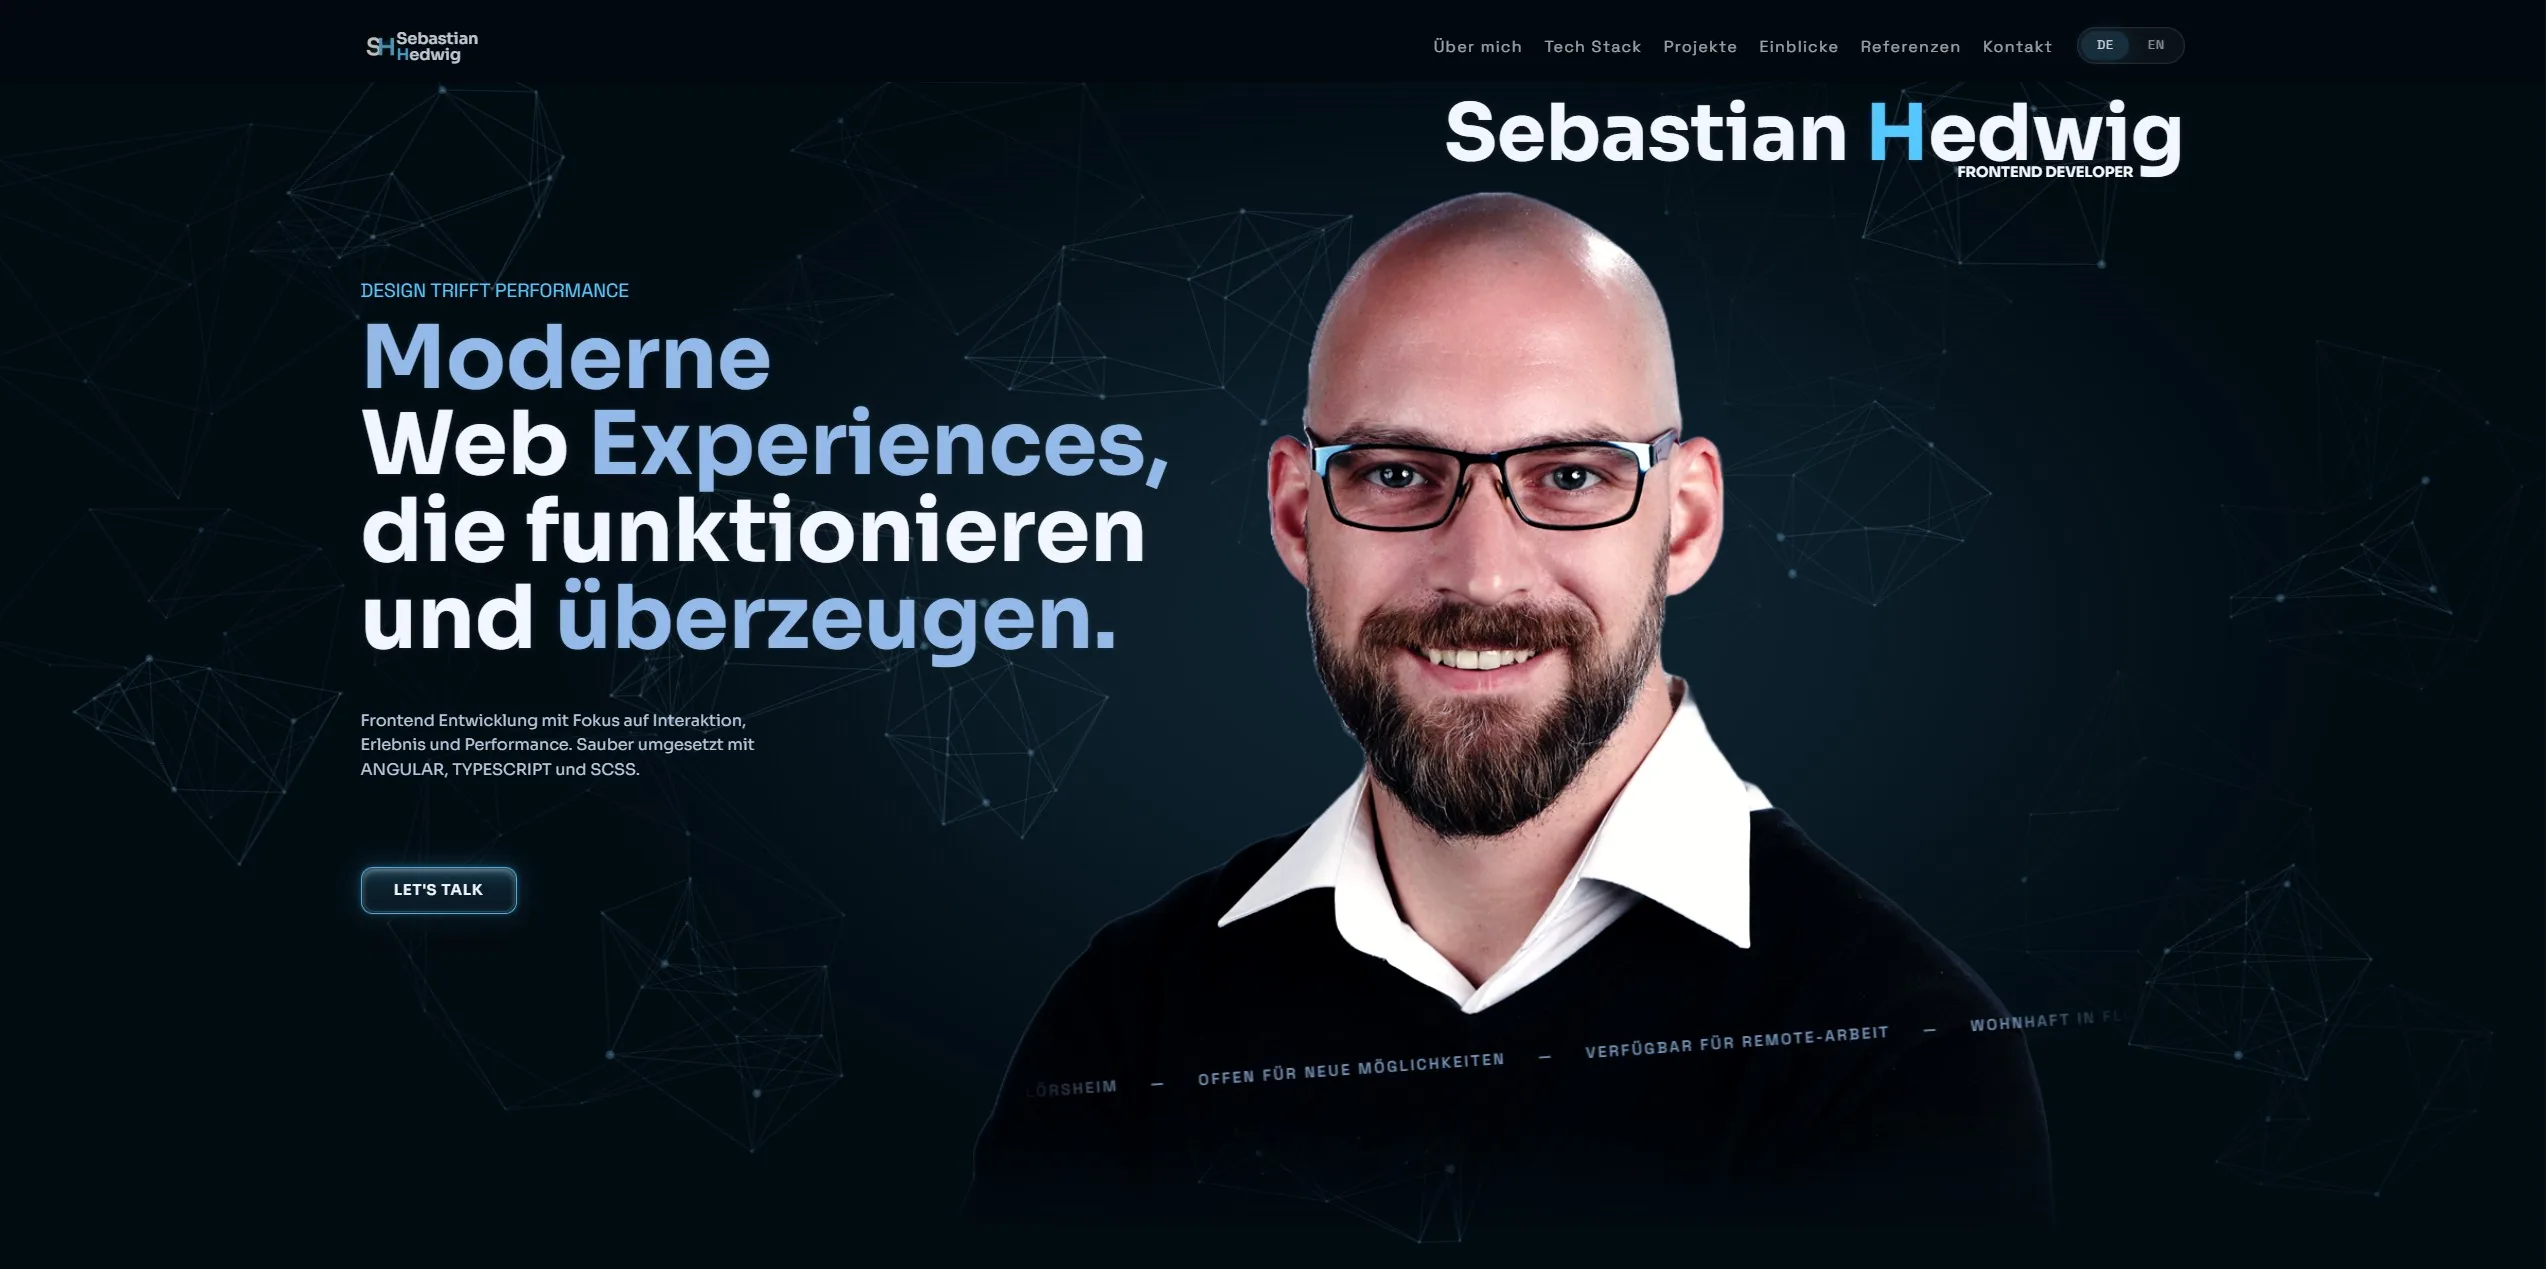
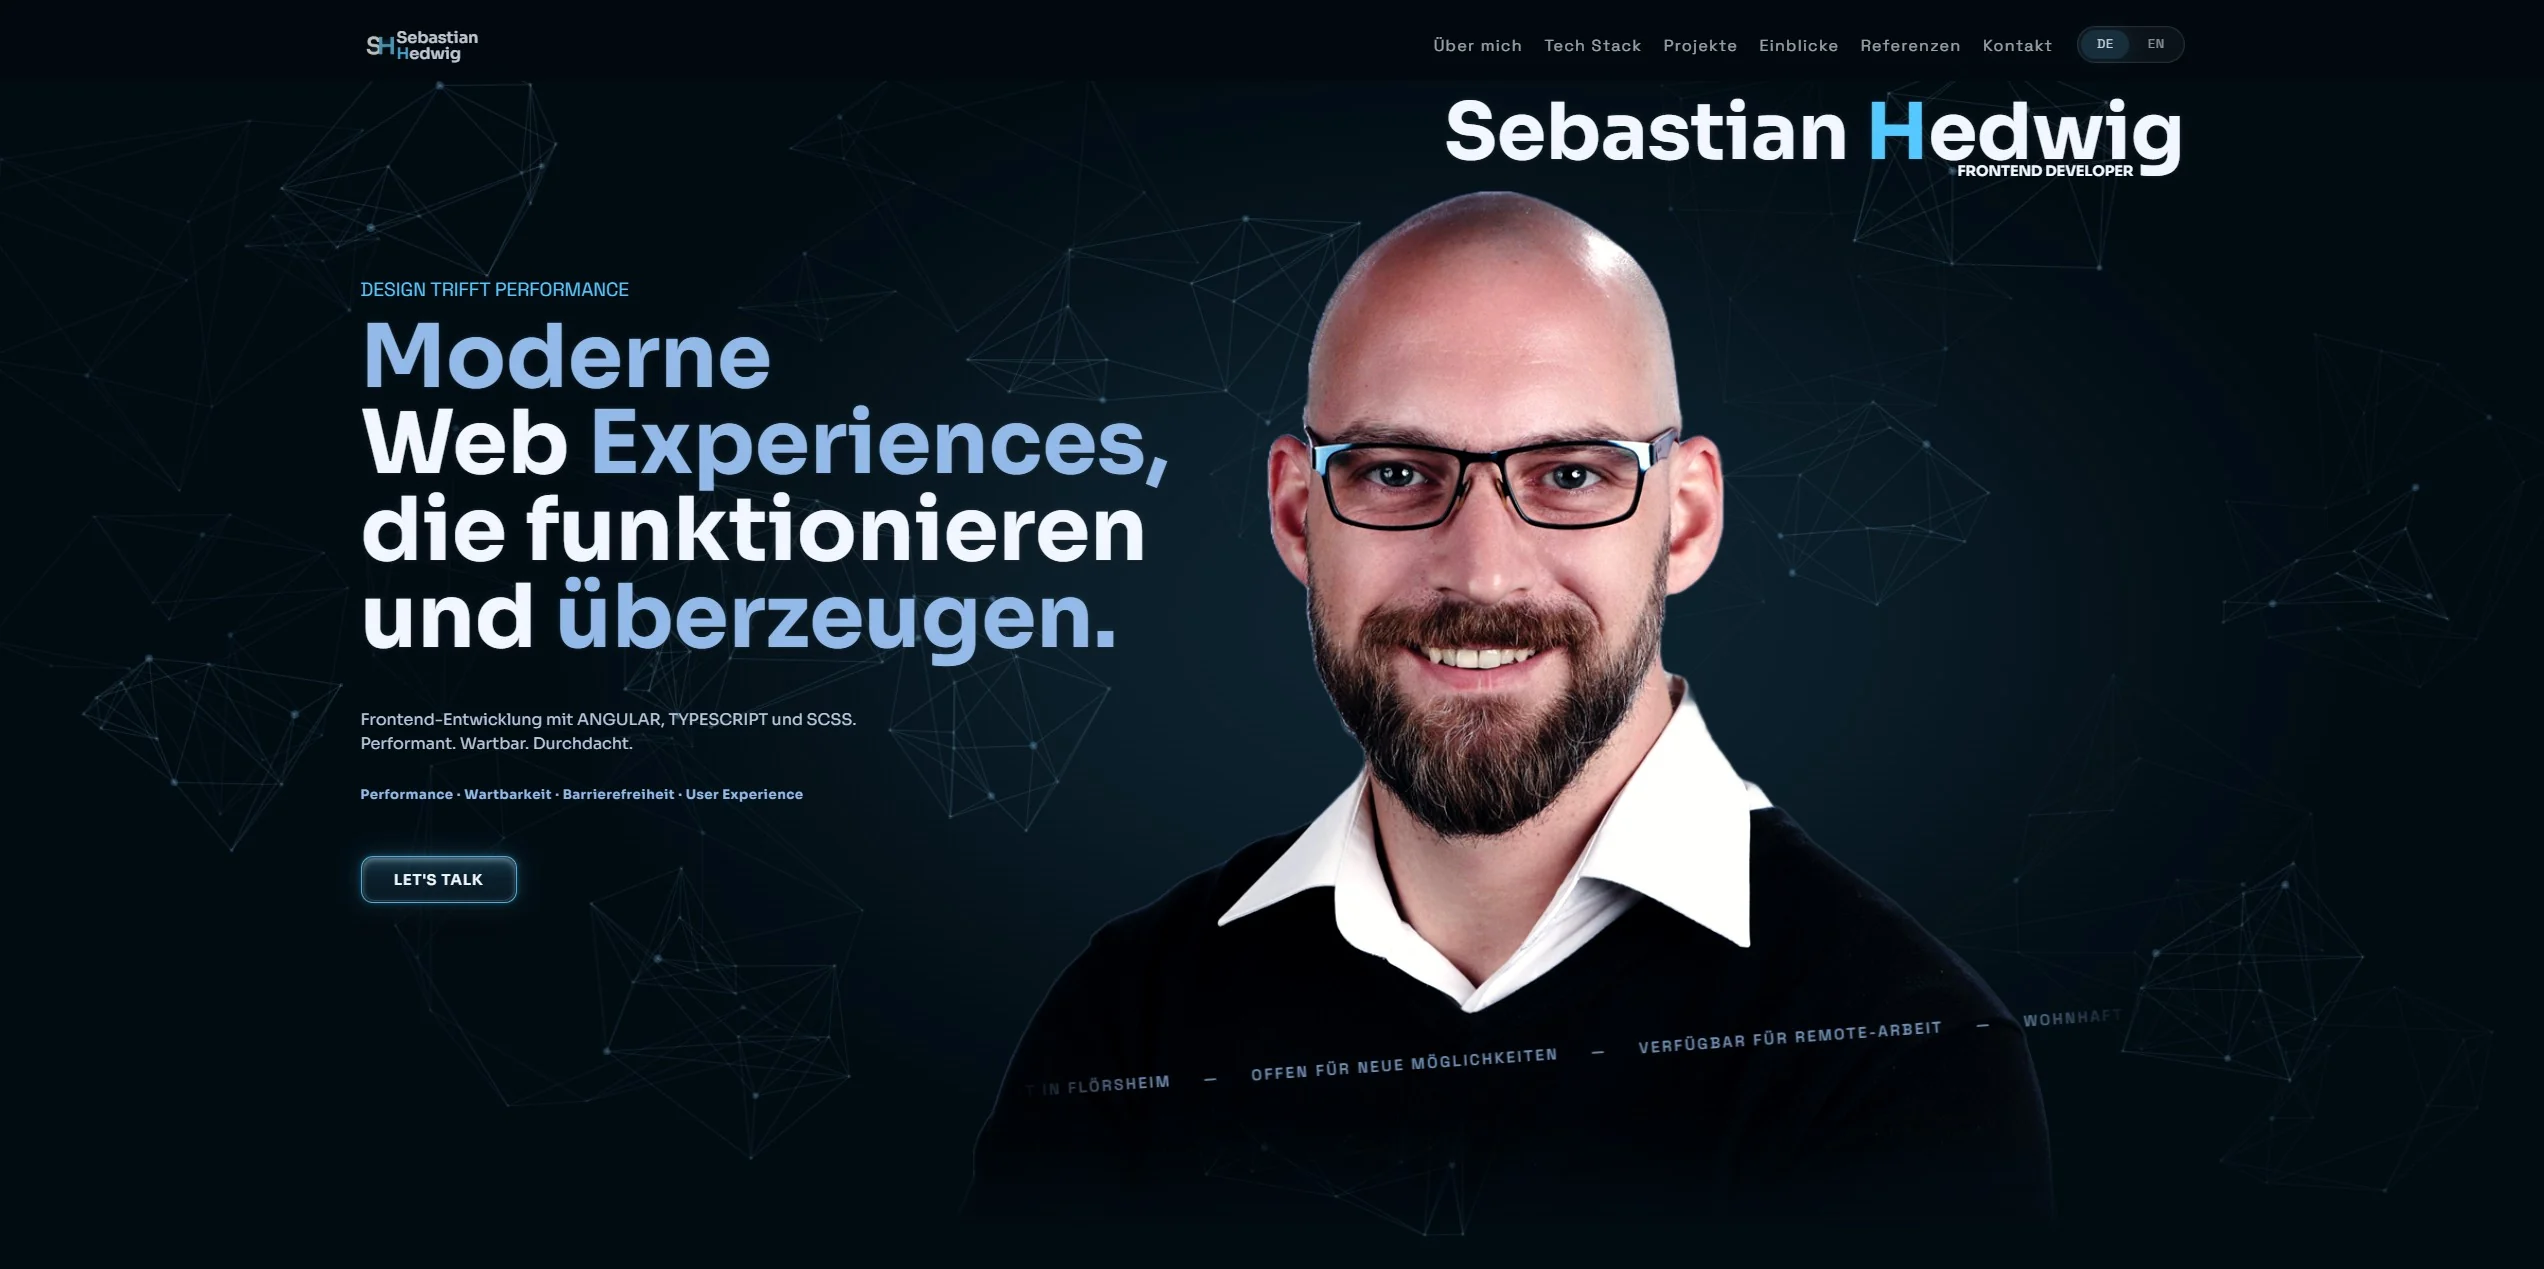
feat: optimize visuals and refine responsive presentation
- update hero copy and quality line in German and English
- fine-tune hero layout for desktop, landscape, tablet, and mobile breakpoints
- restore and adjust portrait glow behavior for mobile and tablet portrait
- improve hero ticker positioning across flat and landscape viewports
- refine About and Tech Stack reveal timing on mobile
- adjust About and Projects anchor offsets for tablet landscape
- improve Project Moments layout, icon wrapping, spacing, and text alignment
- convert Project Moments preview images from PNG to WebP and update references
- remove unused portrait PNG fallbacks and use WebP-only hero portrait assets
- refresh README and case-study preview images from updated social preview assets
- update case-study tablet portrait layout and preview image behavior

diff --git a/src/app/sections/hero/components/hero-description/hero-description.component.scss b/src/app/sections/hero/components/hero-description/hero-description.component.scss
@@ -29,11 +29,26 @@
   }
 
   &__text {
-    max-width: 25rem;
-    margin: clamp(1.15rem, 3vh, 2rem) 0;
+    max-width: 32rem;
+    margin: clamp(1.15rem, 3vh, 2rem) 0 0;
     color: tokens.$color-muted;
     font-size: 1rem;
     line-height: 1.55;
+  }
+
+  &__text-detail {
+    display: block;
+  }
+
+  &__quality-line {
+    max-width: max-content;
+    margin: clamp(0.45rem, 1.2vh, 0.75rem) 0 0;
+    color: tokens.$color-accent-soft;
+    font-size: clamp(0.72rem, 0.9vw, 0.82rem);
+    font-weight: 700;
+    line-height: 1.45;
+    letter-spacing: 0.04em;
+    white-space: nowrap;
   }
 
   &__actions {
@@ -61,8 +76,14 @@
     }
 
     &__text {
+      max-width: 32rem;
       font-size: clamp(0.9rem, calc(1.14vh + 0.33rem), 1rem);
       line-height: 1.48;
+    }
+
+    &__quality-line {
+      max-width: max-content;
+      white-space: nowrap;
     }
 
     &__actions {
@@ -82,9 +103,23 @@
     }
 
     &__text {
-      max-width: 20rem;
+      max-width: 31rem;
       font-size: 0.88rem;
       line-height: 1.5;
+    }
+
+    &__quality-line {
+      max-width: max-content;
+      font-size: 0.72rem;
+      white-space: nowrap;
+    }
+
+    &__text-detail {
+      display: inline;
+
+      &::before {
+        content: ' ';
+      }
     }
 
     &__actions {
@@ -101,6 +136,19 @@
       > span {
         white-space: normal;
       }
+    }
+
+    &-description__text-detail {
+      display: inline;
+
+      &::before {
+        content: ' ';
+      }
+    }
+
+    &-description__quality-line {
+      max-width: 25rem;
+      white-space: normal;
     }
   }
 }
@@ -125,6 +173,12 @@
       margin-top: clamp(0.18rem, 0.55svh, 0.35rem);
       font-size: clamp(0.76rem, 3.35vw, 0.88rem);
       line-height: 1.38;
+    }
+
+    &__quality-line {
+      max-width: min(100%, 20rem);
+      margin-top: clamp(0.4rem, 1.1svh, 0.65rem);
+      font-size: clamp(0.64rem, 2.75vw, 0.74rem);
     }
 
     &__actions {

diff --git a/src/app/sections/projects/projects.data.de.ts b/src/app/sections/projects/projects.data.de.ts
@@ -55,7 +55,7 @@ export const PROJECTS_CONTENT_DE: ProjectsContent = {
         ],
       },
       visual: {
-        src: 'assets/images/projects/project-join-1500.png',
+        src: 'assets/images/projects/project-join-1500.webp',
         width: 1500,
         height: 1001,
         alt: 'Projektvorschau von Join',
@@ -93,7 +93,7 @@ export const PROJECTS_CONTENT_DE: ProjectsContent = {
         ],
       },
       visual: {
-        src: 'assets/images/projects/project-panda-1500.png',
+        src: 'assets/images/projects/project-panda-1500.webp',
         width: 1500,
         height: 1000,
         alt: 'Projektvorschau von Panda Jungle Run',
@@ -135,7 +135,7 @@ export const PROJECTS_CONTENT_DE: ProjectsContent = {
         ],
       },
       visual: {
-        src: 'assets/images/projects/project-pokedex-1280.png',
+        src: 'assets/images/projects/project-pokedex-1280.webp',
         width: 1280,
         height: 792,
         alt: 'Projektvorschau eines Pokédex',

diff --git a/src/app/sections/projects/projects.data.en.ts b/src/app/sections/projects/projects.data.en.ts
@@ -55,7 +55,7 @@ export const PROJECTS_CONTENT_EN: ProjectsContent = {
         ],
       },
       visual: {
-        src: 'assets/images/projects/project-join-1500.png',
+        src: 'assets/images/projects/project-join-1500.webp',
         width: 1500,
         height: 1001,
         alt: 'Join project preview',
@@ -93,7 +93,7 @@ export const PROJECTS_CONTENT_EN: ProjectsContent = {
         ],
       },
       visual: {
-        src: 'assets/images/projects/project-panda-1500.png',
+        src: 'assets/images/projects/project-panda-1500.webp',
         width: 1500,
         height: 1000,
         alt: 'Panda Jungle Run project preview',
@@ -135,7 +135,7 @@ export const PROJECTS_CONTENT_EN: ProjectsContent = {
         ],
       },
       visual: {
-        src: 'assets/images/projects/project-pokedex-1280.png',
+        src: 'assets/images/projects/project-pokedex-1280.webp',
         width: 1280,
         height: 792,
         alt: 'Pokédex project preview',

diff --git a/src/app/sections/about/about.component.scss b/src/app/sections/about/about.component.scss
@@ -79,7 +79,7 @@
 
   &__context-block {
     gap: clamp(1rem, 2.5vh, 1.75rem);
-    width: min(100%, 25rem);
+    width: 100%;
   }
 
   &__text-zone {
@@ -167,6 +167,11 @@
 @media (max-width: 1024px) and (orientation: landscape) {
   .about-stage {
     padding-block: clamp(4rem, 8vh, 6rem) clamp(6rem, 10vh, 8rem);
+
+    &__anchor {
+      top: 18rem;
+      scroll-margin-top: clamp(4.75rem, 8vh, 6rem);
+    }
 
     &__scroll-space {
       height: 312svh;
@@ -418,7 +423,7 @@
     }
 
     &__anchor {
-      top: clamp(7rem, 13vh, 10rem);
+      top: clamp(18rem, 24vh, 22rem);
       scroll-margin-top: clamp(4.25rem, 8vh, 5.75rem);
     }
 
@@ -574,6 +579,10 @@
 
 @media (min-width: 761px) and (max-width: 1024px) and (orientation: portrait) {
   .about-stage {
+    &__anchor {
+      scroll-margin-top: clamp(7.75rem, 11svh, 9rem);
+    }
+
     &__scene--intro {
       display: grid;
       grid-template-columns: minmax(0, 1fr) minmax(17rem, 22rem);

diff --git a/src/app/sections/hero/hero.data.en.ts b/src/app/sections/hero/hero.data.en.ts
@@ -10,7 +10,9 @@ export const HERO_CONTENT_EN: HeroContent = {
       'and convince.',
     ],
     text:
-      'Frontend development focused on interaction, experience, and performance. Carefully built with ANGULAR, TYPESCRIPT and SCSS.',
+      'Frontend development with ANGULAR, TYPESCRIPT and SCSS.',
+    textDetail: 'Performant. Maintainable. Thoughtfully built.',
+    qualities: 'Performance · Maintainability · Accessibility · User Experience',
     action: {
       href: '#contact',
       label: "Let's talk",
@@ -21,7 +23,6 @@ export const HERO_CONTENT_EN: HeroContent = {
     tagline: 'Frontend Developer',
   },
   portrait: {
-    src: 'assets/images/portraits/sebastian-portrait-1600.png',
     compactMobileWebpSrc: 'assets/images/portraits/sebastian-portrait-1200.webp',
     mobileWebpSrc: 'assets/images/portraits/sebastian-portrait-1600.webp',
     webpSrc: 'assets/images/portraits/sebastian-portrait-1600.webp',

diff --git a/src/app/sections/hero/hero.data.de.ts b/src/app/sections/hero/hero.data.de.ts
@@ -10,7 +10,9 @@ export const HERO_CONTENT_DE: HeroContent = {
       'und überzeugen.',
     ],
     text:
-      'Frontend Entwicklung mit Fokus auf Interaktion, Erlebnis und Performance. Sauber umgesetzt mit ANGULAR, TYPESCRIPT und SCSS.',
+      'Frontend-Entwicklung mit ANGULAR, TYPESCRIPT und SCSS.',
+    textDetail: 'Performant. Wartbar. Durchdacht.',
+    qualities: 'Performance · Wartbarkeit · Barrierefreiheit · User Experience',
     action: {
       href: '#contact',
       label: "Let's Talk",
@@ -21,7 +23,6 @@ export const HERO_CONTENT_DE: HeroContent = {
     tagline: 'Frontend Developer',
   },
   portrait: {
-    src: 'assets/images/portraits/sebastian-portrait-1600.png',
     compactMobileWebpSrc: 'assets/images/portraits/sebastian-portrait-1200.webp',
     mobileWebpSrc: 'assets/images/portraits/sebastian-portrait-1600.webp',
     webpSrc: 'assets/images/portraits/sebastian-portrait-1600.webp',

diff --git a/src/app/sections/projects/components/projects-stage-item/components/projects-stage-stack/projects-stage-stack.component.scss b/src/app/sections/projects/components/projects-stage-item/components/projects-stage-stack/projects-stage-stack.component.scss
@@ -101,6 +101,14 @@
   }
 }
 
+@media (min-width: 761px) and (max-width: 1024px) and (orientation: landscape) {
+  .project-moment {
+    &__stack-icons {
+      flex-wrap: wrap;
+    }
+  }
+}
+
 @media (max-width: 480px) and (orientation: portrait) {
   .project-moment {
     &__stack-icons {
@@ -158,7 +166,7 @@
   }
 }
 
-@media (min-width: 1025px) and (max-width: 1368px) {
+@media (min-width: 1025px) and (max-width: 1169px) and (orientation: landscape) {
   .project-moment {
     &__stack-value {
       font-size: clamp(0.9rem, 1.45vw, 1rem);
@@ -168,6 +176,7 @@
     &__stack-icons {
       column-gap: clamp(0.75rem, 1.35vw, 1rem);
       row-gap: clamp(0.9rem, 2vh, 1.2rem);
+      flex-wrap: wrap;
     }
 
     &__stack-item {

diff --git a/src/app/sections/about/components/about-text-block/about-text-block.component.scss b/src/app/sections/about/components/about-text-block/about-text-block.component.scss
@@ -323,7 +323,6 @@
       max-width: none;
       font-size: clamp(1.55rem, 4.8vw, 4.2rem);
       transform: translateX(-50%);
-      animation-name: about-value-row-cycle-centered;
     }
 
     &__value-lead {
@@ -422,24 +421,6 @@
   }
 }
 
-@keyframes about-value-row-cycle-centered {
-  0%,
-  100% {
-    clip-path: inset(0 101% 0 0);
-    opacity: 0;
-  }
-
-  8%,
-  25% {
-    clip-path: inset(0 0 0 0);
-    opacity: 1;
-  }
-
-  33.333% {
-    clip-path: inset(0 0 0 101%);
-    opacity: 0;
-  }
-}
 
 @media (min-width: 761px) and (max-width: 1024px) and (orientation: portrait) {
   :host.about-stage__text-zone--vision {

diff --git a/src/app/sections/projects/projects.component.scss b/src/app/sections/projects/projects.component.scss
@@ -103,8 +103,8 @@
     }
 
     &__anchor {
-      top: 10.3svh;
-      scroll-margin-top: clamp(5.75rem, 10vh, 7.5rem);
+      top: clamp(6.5rem, 12svh, 8rem);
+      scroll-margin-top: clamp(5.75rem, 9vh, 7rem);
     }
 
     &__sticky,
@@ -119,6 +119,14 @@
     &__anchor {
       top: clamp(12rem, 18vh, 18rem);
       scroll-margin-top: clamp(9.5rem, 12vh, 12rem);
+    }
+  }
+}
+
+@media (min-width: 761px) and (max-width: 1024px) and (orientation: portrait) {
+  .projects-stage {
+    &__anchor {
+      scroll-margin-top: clamp(7.75rem, 11svh, 9rem);
     }
   }
 }

diff --git a/src/app/pages/landing/landing.component.scss b/src/app/pages/landing/landing.component.scss
@@ -67,13 +67,14 @@
 
 @media (max-width: 1368px) and (orientation: landscape) {
   .landing-page {
-    --landing-stage-scroll-margin: clamp(1.25rem, 3vh, 2.5rem);
+    --landing-stage-scroll-margin: clamp(4rem, 8vh, 5.75rem);
     --landing-about-tech-offset: clamp(-5.5rem, -8svh, -3.5rem);
   }
 }
 
 @media (min-width: 900px) and (max-width: 1024px) and (orientation: landscape) {
   .landing-page {
+    --landing-stage-scroll-margin: clamp(4.25rem, 8.5vh, 5.75rem);
     --landing-about-tech-offset: clamp(-4.5rem, -7svh, -3rem);
   }
 }

diff --git a/src/app/sections/hero/hero.models.ts b/src/app/sections/hero/hero.models.ts
@@ -7,7 +7,9 @@ export type HeroDescriptionData = {
   action: HeroPrimaryActionData;
   eyebrow: string;
   headlineLines: string[];
+  qualities: string;
   text: string;
+  textDetail: string;
 };
 
 export type HeroIdentityData = {
@@ -20,7 +22,6 @@ export type HeroPortraitData = {
   height: number;
   mobileWebpSrc: string;
   compactMobileWebpSrc: string;
-  src: string;
   webpSrc: string;
   width: number;
 };

diff --git a/src/app/sections/hero/components/hero-description/hero-description.component.html b/src/app/sections/hero/components/hero-description/hero-description.component.html
@@ -12,7 +12,12 @@
   </h1>
 
   <p class="hero-description__text">
-    {{ content().text }}
+    <span>{{ content().text }}</span>
+    <span class="hero-description__text-detail">{{ content().textDetail }}</span>
+  </p>
+
+  <p class="hero-description__quality-line">
+    {{ content().qualities }}
   </p>
 
   <div class="hero-description__actions">
